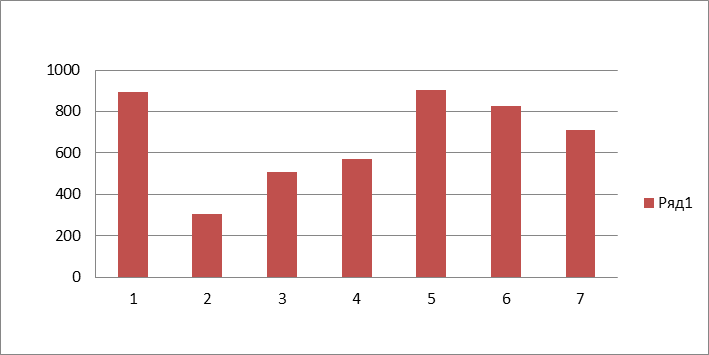
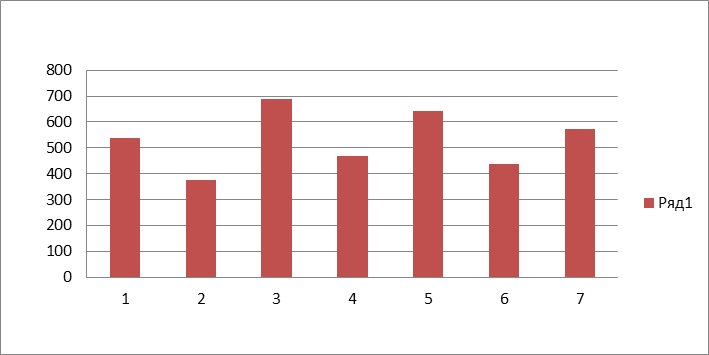
Moved table creation and image export to functions. Fixed CWD change.

diff --git a/GenerateApp/generator.py b/GenerateApp/generator.py
@@ -8,59 +8,62 @@ from openpyxl import load_workbook
 from openpyxl.chart import BarChart, Reference
 import win32com.client as win32
 
+def create_table(path):
+    random.seed()
+    ColumnCount = random.randint(5, 12)
+    full_path = str(path) + '\source.xlsx'
+    workbook = xlsxwriter.Workbook(full_path )
+
+    worksheet = workbook.add_worksheet()
+    LowerBound = random.randint(100, 500)
+    UpperBound = random.randint(600, 1000)
+    for column in range(ColumnCount):
+        value = random.randint(LowerBound, UpperBound)
+        worksheet.write(column, 0, column + 1)
+        worksheet.write(column, 1, value)
+    workbook.close()
+
+    OpenedWb = load_workbook(full_path )
+    OpenedWS = OpenedWb['Sheet1']
+    chart1 = BarChart()
+    chart1.type = "col"
+    chart1.style = 4
+    chart1.title = ""
+    chart1.y_axis.title = ''
+    chart1.x_axis.title = ''
+
+    data = Reference(OpenedWS, min_col=2, min_row=1, max_row=ColumnCount)
+    cats = Reference(OpenedWS, min_col=1, min_row=1, max_row=ColumnCount)
+    chart1.add_data(data, titles_from_data=False)
+    chart1.set_categories(cats)
+    chart1.shape = 4
+    OpenedWS.add_chart(chart1, "D3")
+    OpenedWb.save(full_path)
+
+def export_image(path):
+    app = win32.Dispatch('Excel.Application')
+    workbook_file_name = str(path) +  '\\source.xlsx'
+    workbook = app.Workbooks.Open(Filename=workbook_file_name)
+    app.DisplayAlerts = False
+
+    for sheet in workbook.Worksheets:
+        for chartObject in sheet.ChartObjects():
+            chartObject.Activate()
+            image_file_name=str(path) +  '\\image.png'
+            chartObject.Chart.Export(image_file_name)
+    workbook.Close(SaveChanges=False, Filename=workbook_file_name)
+
 
 def generate(args):
-    if os.access(str(args.BasePath), os.F_OK):
-        os.chdir(str(args.BasePath))
-    if not os.access(str(args.BaseName)+'\Data', os.F_OK):
-        os.makedirs(str(args.BaseName)+'\Data')
-    os.chdir(str(args.BaseName)+'\Data')
+    dirpath = os.path.join(args.BasePath, args.BaseName + '\\Data')
+    if not os.access(str(dirpath), os.F_OK):
+        os.makedirs(str(dirpath))
     for iteration in range(args.ChartsCount):
-        if not os.access(str(iteration+1), os.F_OK):
-            os.mkdir(str(iteration+1))
-        os.chdir(str(iteration+1))
-        random.seed()
-        ColumnCount = random.randint(5, 12)
-        workbook = xlsxwriter.Workbook('source.xlsx')
-        worksheet = workbook.add_worksheet()
-        LowerBound = random.randint(100, 500)
-        UpperBound = random.randint(600, 1000)
-        for column in range(ColumnCount):
-            value = random.randint(LowerBound, UpperBound)
-            worksheet.write(column, 0, column + 1)
-            worksheet.write(column, 1, value)
-        workbook.close()
-
-        OpenedWb = load_workbook('source.xlsx')
-        OpenedWS = OpenedWb['Sheet1']
-        chart1 = BarChart()
-        chart1.type = "col"
-        chart1.style = 4
-        chart1.title = ""
-        chart1.y_axis.title = ''
-        chart1.x_axis.title = ''
-
-        data = Reference(OpenedWS, min_col=2, min_row=1, max_row=ColumnCount)
-        cats = Reference(OpenedWS, min_col=1, min_row=1, max_row=ColumnCount)
-        chart1.add_data(data, titles_from_data=False)
-        chart1.set_categories(cats)
-        chart1.shape = 4
-        OpenedWS.add_chart(chart1, "D3")
-        OpenedWb.save('source.xlsx')
-        app = win32.Dispatch('Excel.Application')
-        cwd = os.getcwd()
-        workbook_file_name = cwd + '\\source.xlsx'
-        workbook = app.Workbooks.Open(Filename=workbook_file_name)
-
-        app.DisplayAlerts = False
-
-        for sheet in workbook.Worksheets:
-            for chartObject in sheet.ChartObjects():
-                chartObject.Activate()
-                chartObject.Chart.Export(cwd + '\\image.png')
-
-        workbook.Close(SaveChanges=False, Filename=workbook_file_name)
-        os.chdir('..')
+        iteration_path = os.path.join(dirpath, str(iteration+1))
+        if not os.access(iteration_path, os.F_OK):
+            os.makedirs(iteration_path)
+        create_table(iteration_path)
+        export_image(iteration_path)
 
 
 
